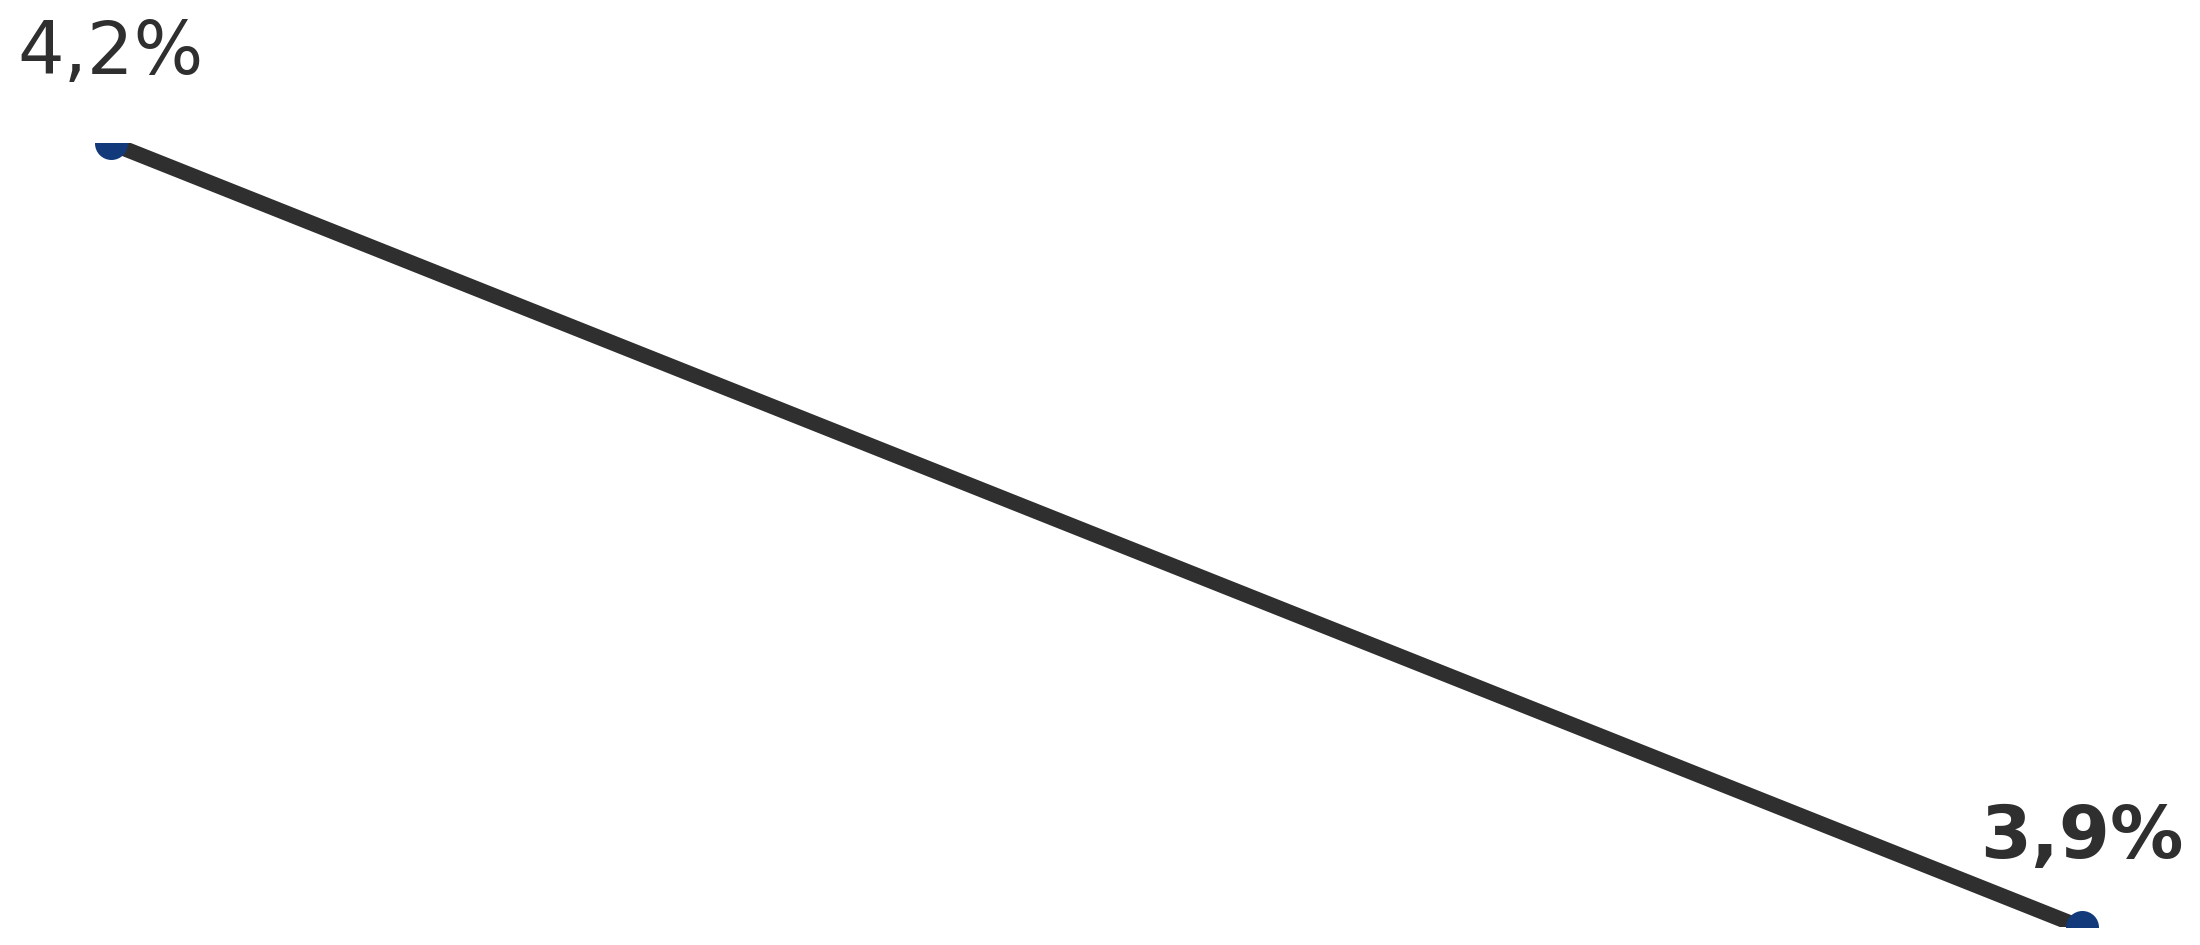
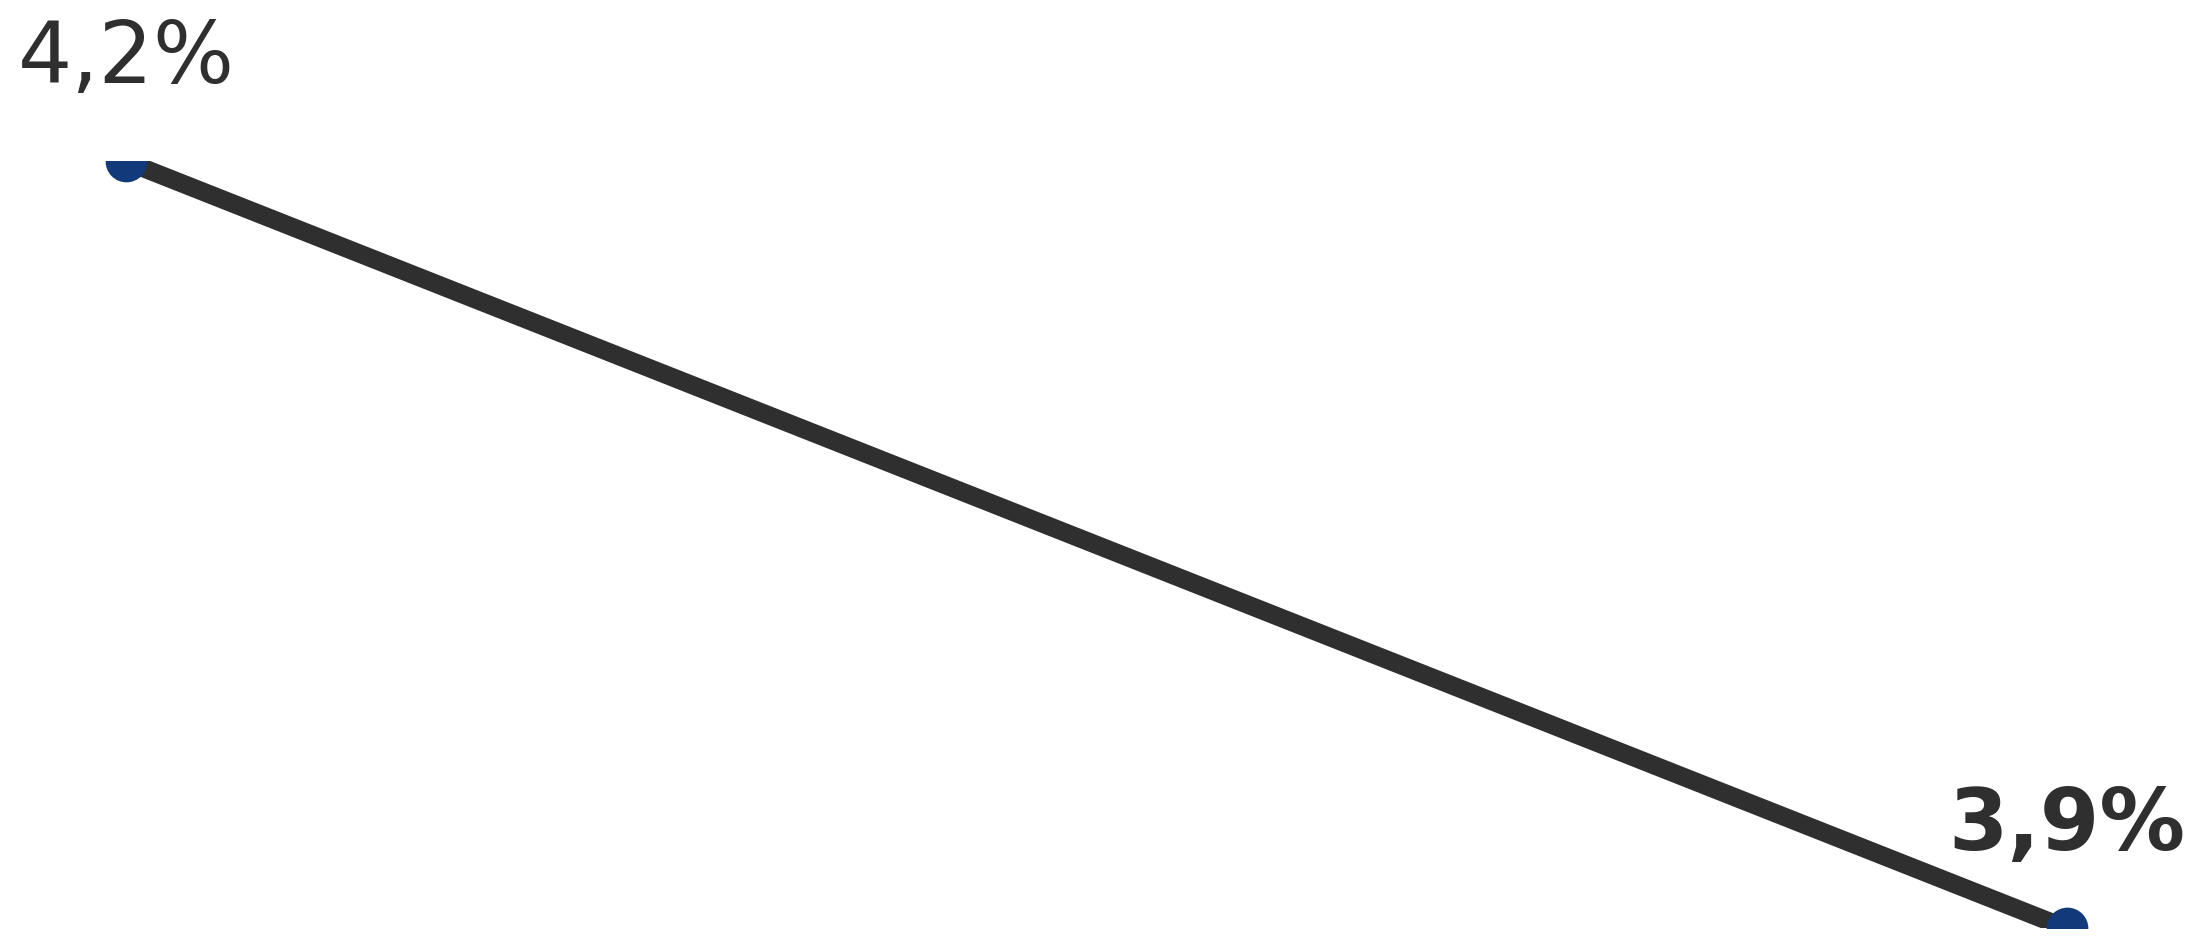
adjustements on slide9

Changed region(s): [[0.0309, 0.1534, 0.9891, 0.982], [0.0, 0.0, 0.1236, 0.0921]]

diff --git a/utils/slide9_charts.py b/utils/slide9_charts.py
@@ -26,6 +26,10 @@ def _as_negative(values: list[float]) -> list[float]:
     return [-abs(float(value)) for value in values]
 
 
+def _as_positive(values: list[float]) -> list[float]:
+    return [abs(float(value)) for value in values]
+
+
 def _wrap_words(text: str, *, max_line_len: int = 15) -> str:
     s = (text or "").strip()
     if not s:
@@ -360,7 +364,7 @@ def generate_slide9_charts(*, xlsx_path: Path, output_dir: Path) -> list[Path]:
 
     # 09) Custo de crédito - Trimestres
     tri_labels = [("" if v is None else str(v)).strip() for v in _read_range_row(ws_custo, "G2:H2")]
-    tri_pdd = to_float_list(_read_range_row(ws_custo, "G13:H13"))
+    tri_pdd = _as_positive(to_float_list(_read_range_row(ws_custo, "G13:H13")))
     tri_rec = _as_negative(to_float_list(_read_range_row(ws_custo, "G5:H5")))
     tri_values = np.column_stack((np.asarray(tri_pdd, dtype=float), np.asarray(tri_rec, dtype=float)))
     out19 = output_dir / "09_custo_credito_trimestres.png"
@@ -375,7 +379,7 @@ def generate_slide9_charts(*, xlsx_path: Path, output_dir: Path) -> list[Path]:
 
     # 09) Custo de crédito - 9M
     ytd_labels = [("" if v is None else str(v)).strip() for v in _read_range_row(ws_custo, "D2:F2")]
-    ytd_pdd = to_float_list(_read_range_row(ws_custo, "D13:F13"))
+    ytd_pdd = _as_positive(to_float_list(_read_range_row(ws_custo, "D13:F13")))
     ytd_rec = _as_negative(to_float_list(_read_range_row(ws_custo, "D5:F5")))
     ytd_values = np.column_stack((np.asarray(ytd_pdd, dtype=float), np.asarray(ytd_rec, dtype=float)))
     out20 = output_dir / "09_custo_credito_9m.png"
@@ -410,6 +414,10 @@ def generate_slide9_charts(*, xlsx_path: Path, output_dir: Path) -> list[Path]:
         y_baseline=0.0,
         y_expand=0.10,
         smooth=True,
+        line_width=6.0,
+        label_fontsize=28.0,
+        marker_size=160.0,
+        label_offset_pts=20.0,
     )
     close_figure(fig)
     generated.append(output_dir / "09_custo_variacao_custo_credito.png")
@@ -423,10 +431,10 @@ def generate_slide9_charts(*, xlsx_path: Path, output_dir: Path) -> list[Path]:
         output_path=output_dir / "09_custo_variacao_custo_credito_9m.png",
         fmt_as_percent=True,
         smooth=True,
-        line_width=5.0,
-        label_fontsize=24.0,
-        marker_size=96.0,
-        label_offset_pts=18.0,
+        line_width=6.0,
+        label_fontsize=28.0,
+        marker_size=160.0,
+        label_offset_pts=20.0,
     )
     close_figure(fig)
     generated.append(output_dir / "09_custo_variacao_custo_credito_9m.png")

diff --git a/tests/test_slide9_charts.py b/tests/test_slide9_charts.py
@@ -23,14 +23,14 @@ class TestSlide9Charts(unittest.TestCase):
 
         for col_offset, label in enumerate(["9M23", "9M24", "9M25"], start=4):
             ws_custo.cell(row=2, column=col_offset).value = label
-        for col_offset, value in enumerate([100, 110, 120], start=4):
+        for col_offset, value in enumerate([100, -110, 120], start=4):
             ws_custo.cell(row=13, column=col_offset).value = value
         for col_offset, value in enumerate([10, 12, 14], start=4):
             ws_custo.cell(row=5, column=col_offset).value = value
 
         for col_offset, label in enumerate(["4T24", "1T25"], start=7):
             ws_custo.cell(row=2, column=col_offset).value = label
-        for col_offset, value in enumerate([40, 45], start=7):
+        for col_offset, value in enumerate([-40, 45], start=7):
             ws_custo.cell(row=13, column=col_offset).value = value
         for col_offset, value in enumerate([4, 5], start=7):
             ws_custo.cell(row=5, column=col_offset).value = value
@@ -125,6 +125,8 @@ class TestSlide9Charts(unittest.TestCase):
             "D10:F10",
         )
         self.assertTrue(captured_lines["09_custo_variacao_custo_credito.png"]["kwargs"]["fmt_as_percent"])
+        self.assertEqual(captured_lines["09_custo_variacao_custo_credito.png"]["kwargs"]["label_fontsize"], 28.0)
+        self.assertEqual(captured_lines["09_custo_variacao_custo_credito.png"]["kwargs"]["marker_size"], 160.0)
 
         self.assertEqual(
             captured_lines["09_custo_variacao_custo_credito_9m.png"]["sheet_name"],
@@ -139,6 +141,8 @@ class TestSlide9Charts(unittest.TestCase):
             "G10:H10",
         )
         self.assertTrue(captured_lines["09_custo_variacao_custo_credito_9m.png"]["kwargs"]["fmt_as_percent"])
+        self.assertEqual(captured_lines["09_custo_variacao_custo_credito_9m.png"]["kwargs"]["label_fontsize"], 28.0)
+        self.assertEqual(captured_lines["09_custo_variacao_custo_credito_9m.png"]["kwargs"]["marker_size"], 160.0)
 
 
 if __name__ == "__main__":
